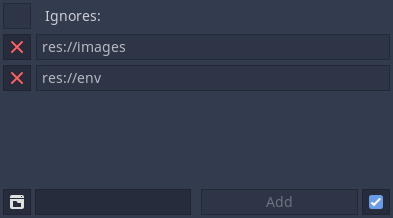
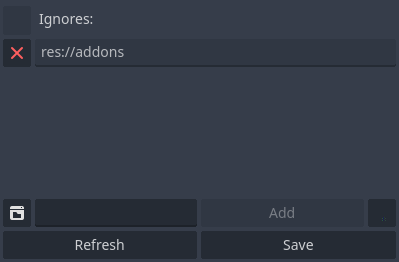
📖 docs: v3.1.0

diff --git a/README.md b/README.md
@@ -10,25 +10,30 @@ Scene Manager v3.X.X is compatible with Godot 4.
 
 ## Features
 
+**Recently Added**:
+
+* [X] Ability to hide scenes in a list (Just Godot4)
+* [X] Ignoring a specific scene in ignores list section is possible (Just Godot4)
+
+**All**:
+
 * [X] A fully responsive tool menu structure to manage and categorize your scene
 * [X] Save button that saves all scenes in a dictionary
 * [X] Refresh button that refreshes the tool with latest saved status of the scenes
 * [X] List duplication check for keys
 * [X] Smooth transition between scenes
-* [X] Demo
-* [X] Memory performance
-* [X] Ignore folder feature which ignores some folders you said to ignore in `Scene Manager` addon tool
+* [X] Ignore folder feature in UI ignores all scenes inside that specific folder that you added in the ignore list
 * [X] Categorization for scenes
 * [X] Ignore folder section can hide optionally
-* [X] Change to previous scenes is allowed and possible and handled
+* [X] Change to previous scenes is possible
 * [X] Fully customizable transitions
-* [X] Customizable entering the first scene of the game transition
+* [X] Customizable way of entering the first scene of the game
 * [X] Reset `Scene Manager` function to assume the current scene as the first ever seen scene (to ignore previous scenes and don't go back to them by changing scene to the previous scene)
-* [X] Arrangeable scene categories(they will reset to alphabetic order after refresh or save button)
+* [X] Arrangeable scene categories(they will reset to alphabetic order after refresh or save button pressed)
 * [X] Fade in and fade out with different desired patterns
 * [X] You can create instance of a scene just by calling the scene with a key
 * [X] Transition is so much customizable
-* [X] `SceneManager` tool will ignore scenes inside folders with `.gdignore` file inside them
+* [X] `SceneManager` tool will ignore scenes inside folders with `.gdignore` file beside them
 
 ## How To Use?
 
@@ -42,7 +47,7 @@ Scene Manager v3.X.X is compatible with Godot 4.
 
 ## Tool View
 
-**Note**: All demo pictures are taken from Godot3.
+**Note**: All demo pictures and gifs are from Godot4 UI.
 This is the tool that you will see on your right side of the godot editor after activating `scene_manager` plugin. By **Add Category** button under scenes categories you can create new categories to manage your scenes.
 
 <p align="center">
@@ -63,6 +68,22 @@ Every folder that is added inside this section will be ignored and scenes inside
 
 <p align="center">
 <img src="images/ignore.png"/>
+</p>
+
+## Scene Menu
+
+Every scene has a button beside them which will open up a menu to configure settings of that specific scene.
+
+<p align="center">
+<img src="./images/menu.png"/>
+</p>
+
+## Hide (Just Godot4)
+
+From menu of every scene, you can visible or hide scenes and see just hidden or visible scenes in lists by clicking on eye icon at the top of list categories.
+
+<p align="center">
+<img src="./images/tool_hidden.png"/>
 </p>
 
 ## Demo

diff --git a/CHANGELOG.rst b/CHANGELOG.rst
@@ -4,7 +4,12 @@ CHANGELOG
 UNRELEASED
 ----------
 
-* 🎉 feat: visible/hidden feature added
+
+3.1.0 (2022-12-30)
+------------------
+
+* feat: visible/hidden feature added
+* feat: hiding a specific scene in ignores section is possible
 
 3.0.2 (2022-12-29)
 ------------------
